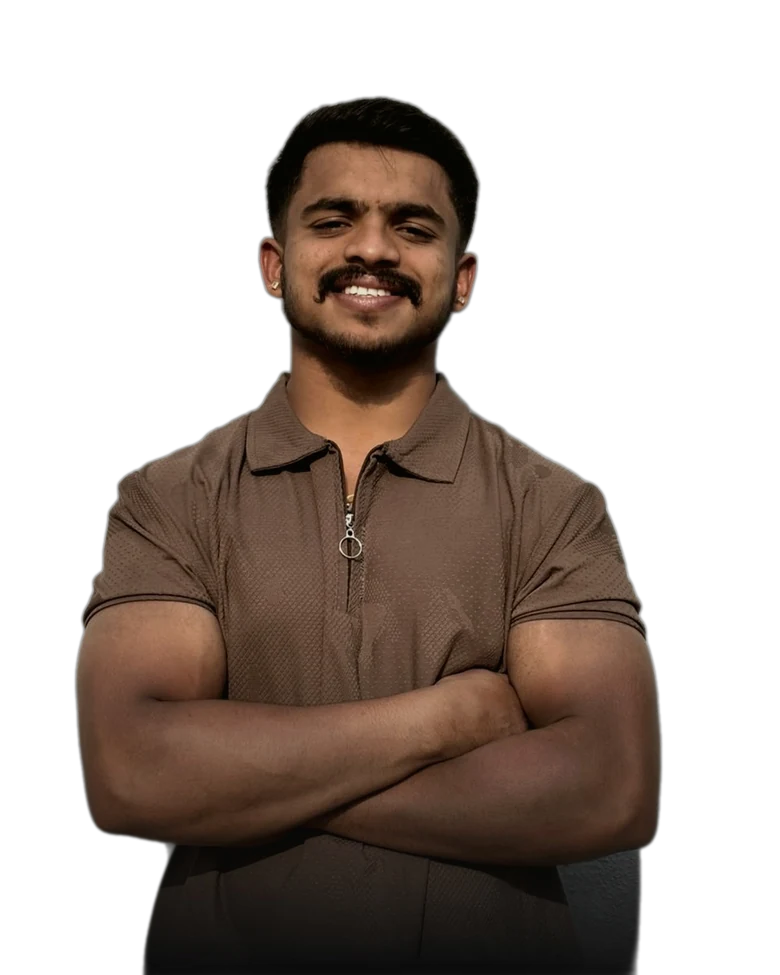
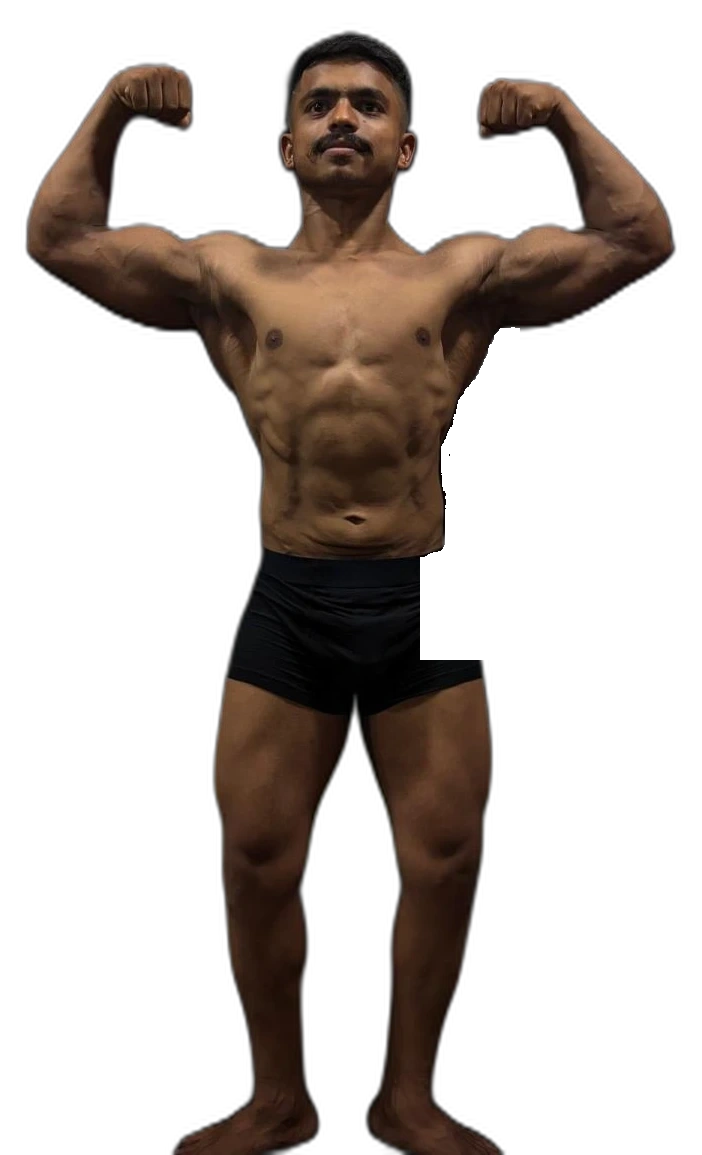
Swap hero photo, add real competition data to Achievements

diff --git a/app/components/Achievements.jsx b/app/components/Achievements.jsx
@@ -4,6 +4,31 @@ import { useRef } from "react";
 import Image from "next/image";
 import { useScrollReveal, useMediaReveal } from "@/app/hooks/useScrollReveal";
 
+const COMPETITIONS = [
+  {
+    photo: "/img/achievement.jpg",
+    alt: "Ravi holding his certificate and trophy at CFS Classic 2026",
+    name: "CFS Classic 2026",
+    detail: "Mr. Karnataka · Bib #185",
+  },
+  {
+    photo: "/img/achievement-2.jpg",
+    alt: "Ravi on stage with his medal at the Garadi Classic 2026 championship",
+    name: "Garadi Classic 2026",
+    detail: "Major Classic · Best of 5",
+  },
+];
+
+function MedalIcon() {
+  return (
+    <svg viewBox="0 0 64 64" fill="none" stroke="currentColor" strokeWidth="3.4" strokeLinecap="round" strokeLinejoin="round">
+      <path d="M21 8 L32 27 L43 8" />
+      <circle cx="32" cy="41" r="15" />
+      <path d="M32 33 L36 41 L32 49 L28 41 Z" />
+    </svg>
+  );
+}
+
 export default function Achievements() {
   const sectionRef = useRef(null);
   useScrollReveal(sectionRef);
@@ -13,20 +38,16 @@ export default function Achievements() {
     <section className="ach" ref={sectionRef}>
       <div className="wrap">
         <div className="ach-photo reveal-media">
-          <Image
-            src="/img/achievement.jpg"
-            alt="Ravi at a competition with an award"
-            width={600}
-            height={880}
-            style={{ width: "100%", height: "auto" }}
-          />
-          <Image
-            src="/img/achievement-2.jpg"
-            alt="Ravi flexing on stage at a bodybuilding competition"
-            width={600}
-            height={880}
-            style={{ width: "100%", height: "auto" }}
-          />
+          {COMPETITIONS.map((c) => (
+            <Image
+              key={c.photo}
+              src={c.photo}
+              alt={c.alt}
+              width={600}
+              height={880}
+              style={{ width: "100%", height: "auto" }}
+            />
+          ))}
         </div>
         <div className="ach-copy">
           <p className="eyebrow reveal" data-reveal>
@@ -37,9 +58,18 @@ export default function Achievements() {
             Ravi has trained, competed on stage, and holds certifications in personal training —
             built on real anatomy knowledge, not a weekend course.
           </p>
-          <div className="placeholder-chip reveal" data-reveal>
-            <span className="dot" />
-            Full certification &amp; competition list — coming soon
+          <div className="ach-results reveal" data-reveal>
+            {COMPETITIONS.map((c) => (
+              <div className="ach-result" key={c.name}>
+                <span className="ach-result-icon">
+                  <MedalIcon />
+                </span>
+                <span>
+                  <strong>{c.name}</strong>
+                  <span className="ach-result-detail">{c.detail}</span>
+                </span>
+              </div>
+            ))}
           </div>
         </div>
       </div>

diff --git a/app/globals.css b/app/globals.css
@@ -425,6 +425,7 @@ a {
      same on desktop and mobile so there's no separate breakpoint variant to keep in sync. */
   .stack-wrap{position:relative; width:min(420px,86vw); aspect-ratio:3/4; margin:0 auto;}
   .stack-card{position:absolute; inset:0; border-radius:18px; overflow:hidden; border:1px solid var(--border); background:var(--surface); box-shadow:0 30px 60px -20px rgba(0,0,0,.6); cursor:pointer; transition:transform .5s cubic-bezier(.65,0,.35,1), opacity .45s ease; will-change:transform, opacity;}
+  .stack-card:not(:first-child){opacity:0; transform:translateY(22px) scale(0.88);}
   .stack-card img{width:100%; height:100%; object-fit:cover; display:block; pointer-events:none; -webkit-user-drag:none;}
   .stack-hint{position:absolute; top:14px; right:14px; z-index:50; background:rgba(11,11,12,.62); border:1px solid var(--border); color:var(--text); font-size:10.5px; font-weight:800; letter-spacing:.08em; text-transform:uppercase; padding:7px 14px; border-radius:999px; pointer-events:none; display:flex; align-items:center; gap:6px; animation:stackhint 2.6s ease-in-out infinite;}
   @keyframes stackhint{0%,100%{transform:translateX(0);} 50%{transform:translateX(-4px);}}
@@ -432,7 +433,7 @@ a {
   @media(prefers-reduced-motion:reduce){ .stack-hint{animation:none;} }
 
   /* HOW IT WORKS (full bleed photo bg) */
-  .works{padding:0; min-height:78vh; display:flex; align-items:flex-end;}
+  .works{padding:0; margin-bottom:70px; min-height:78vh; display:flex; align-items:flex-end;}
   .works-bg{position:absolute; inset:-8% -8%; z-index:0;}
   .works-bg picture{display:block; width:100%; height:100%;}
   .works-bg img{width:100%; height:100%; object-fit:cover; display:block;}
@@ -460,6 +461,12 @@ a {
   .ach-copy{flex:1; min-width:280px;}
   .ach-copy h2{font-size:clamp(32px,5vw,50px); font-weight:800; margin:0 0 18px;}
   .ach-copy p{font-size:16px; line-height:1.7; color:#cfccc3; max-width:52ch; margin:0 0 22px;}
+  .ach-results{display:flex; flex-direction:column; gap:10px; max-width:360px;}
+  .ach-result{display:flex; align-items:center; gap:14px; border:1px solid var(--border); border-radius:14px; padding:12px 18px; background:rgba(255,255,255,.02);}
+  .ach-result-icon{display:flex; align-items:center; justify-content:center; width:36px; height:36px; border-radius:50%; background:rgba(201,162,75,.1); flex:none; color:var(--gold);}
+  .ach-result-icon svg{width:19px; height:19px;}
+  .ach-result strong{display:block; font-size:14.5px; font-weight:700; color:var(--text);}
+  .ach-result-detail{display:block; font-size:12.5px; color:var(--muted); margin-top:2px;}
 
   /* TESTIMONIALS — user-draggable continuous scroller */
   .testi-marquee{position:relative; margin-top:46px;}

diff --git a/app/components/Hero.jsx b/app/components/Hero.jsx
@@ -148,8 +148,8 @@ export default function Hero() {
           <Image
             src="/img/hero-cutout.webp"
             alt="Ravi, personal trainer"
-            width={780}
-            height={975}
+            width={702}
+            height={1155}
             priority
             style={{ width: "auto", height: "100%" }}
           />

diff --git a/app/components/Gallery.jsx b/app/components/Gallery.jsx
@@ -4,7 +4,7 @@ import { useEffect, useRef } from "react";
 import Image from "next/image";
 import { useScrollReveal } from "@/app/hooks/useScrollReveal";
 
-const GALLERY_NUMBERS = [1, 4, 5, 7, 8, 9, 10];
+const GALLERY_NUMBERS = [1, 4, 5, 7, 8, 10];
 const GALLERY_COUNT = GALLERY_NUMBERS.length;
 
 /**
